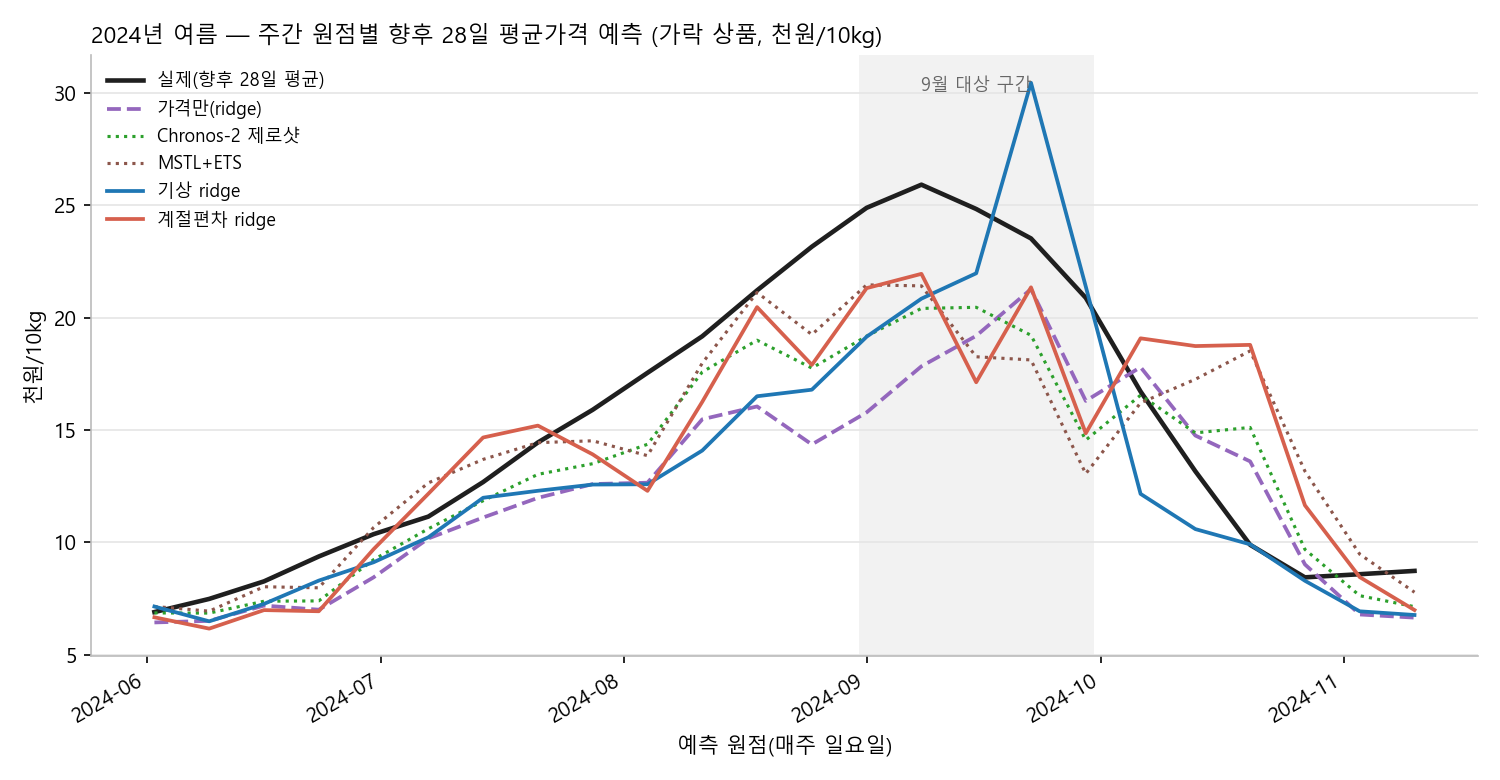
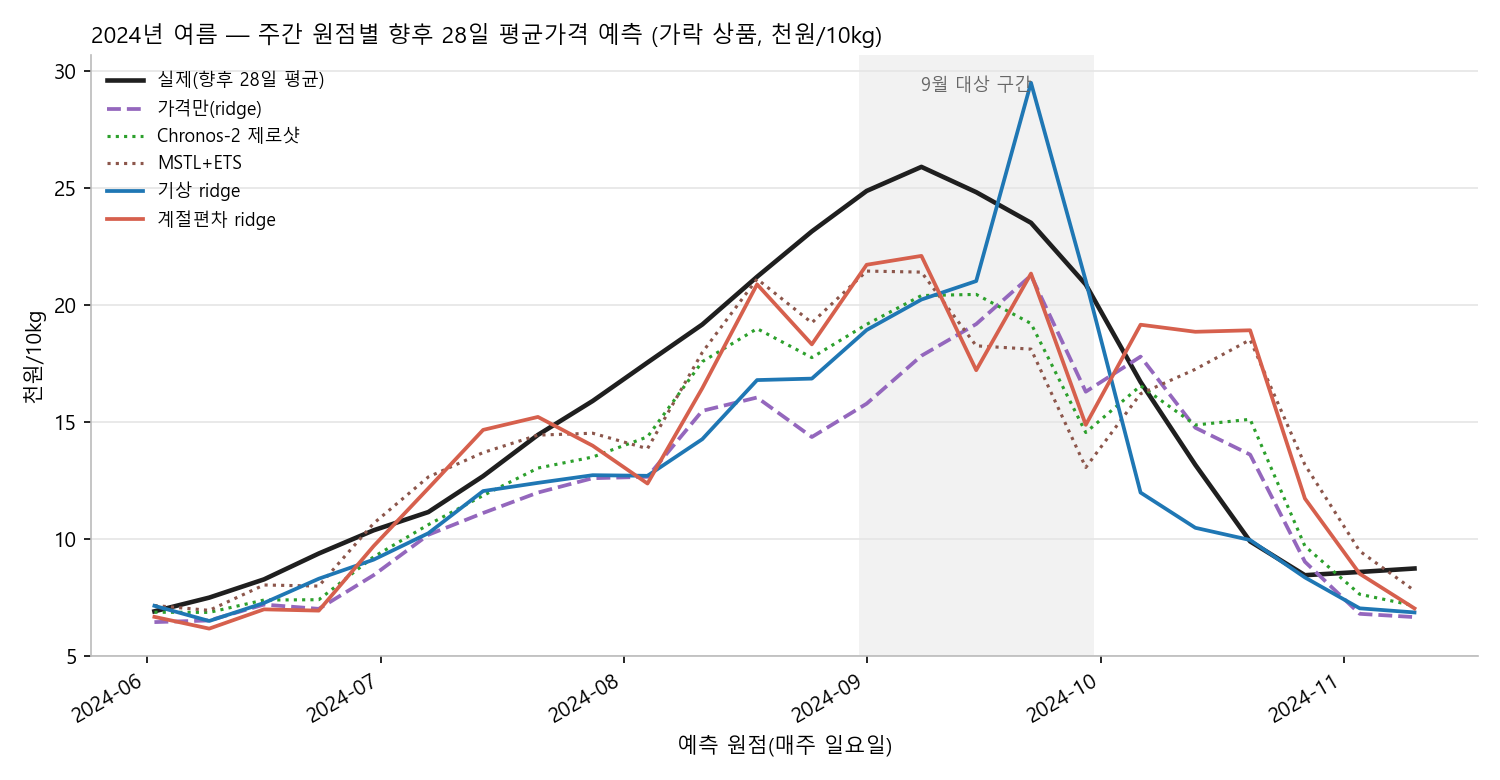
model: 메인에서 정부 방출 피처(gov30/gov60) 제외 — stock.csv 2022~ 자료가 학습구간 0으로 채워져 2022-08 선형 외삽 사고 유발
- backtest.py SUPPLY_FEATS·anomaly_model.py CORE/SPARSE에서 gov 제외(사용자 승인). 월말·주간 백테스트·계절편차·그림 재실행
- 월말: 기상 ridge 2022-09 −59%→−31%, MAPE 17.2→15.0%; 계절편차 ridge −52%→−12%, 16.3→15.6%; 2024-09·트리 무영향
- 계절편차 희소(여름) 2024-09 −6%·MAPE 14.9%로 성공 기준 형식상 충족 — 사후 설계·2025-08 +28% 거짓 경보·0.2%p 차이 단서를 README에 명시
- README 결과표(월말·주간·전체 지표) 갱신, risk-audit R-2/R-3·CLAUDE.md·인계 노트 기록

diff --git a/src/backtest.py b/src/backtest.py
@@ -8,7 +8,7 @@ Models
   naive_last28     : next 28d = last 28d mean
   seasonal_naive   : next 28d = same window last year
   price_only_ridge : lags/seasonality only  (~ what KREI/Chronos-type models see)
-  wx_ridge         : price + weather + inflow + gov
+  wx_ridge         : price + weather + inflow   (정부 방출 피처는 2026-10-08 제외, SUPPLY_FEATS 주석 참조)
   wx_hgb           : HistGradientBoosting on the same features
   wx_hgb_summer    : HGB trained on summer-origin rows only (6~9월), falls back to wx_hgb otherwise
   chronos2         : Chronos-2 zero-shot on the monthly(weekly)-mean price series (KREI 세미나자료 계열, ts_baselines.py)
@@ -39,7 +39,11 @@ PRICE_FEATS = [
     "lp7", "lp28", "lp90", "lp28_lag364", "lp28_lag728", "mom7_28", "mom28_90", "yoy28",
     "vol28", "dlp7", "dlp14", "sin1", "cos1", "sin2", "cos2",
 ]
-SUPPLY_FEATS = ["lq7", "lq28", "qyoy28", "qmom7_28", "gov30", "gov60"]
+# 2026-10-08: gov30/gov60(정부 방출 30/60일 합) 제외. stock.csv 방출은 2022~만 있고 수집 누락이 0으로 들어가
+# 2016~2021 학습구간이 전부 0 → 2022-08 첫 등장 때 선형 모형 외삽 사고(기상 ridge 2022-09 −59%, 계절편차 ridge −52%).
+# 제외 시 기상 ridge MAPE 17.2→15.0%, 2022-09 −31%; 2024-09는 변화 없음. 정부 방출은 experiments/case01 트리거로만 사용.
+SUPPLY_FEATS = ["lq7", "lq28", "qyoy28", "qmom7_28"]
+GOV_FEATS_EXCLUDED = ["gov30", "gov60"]
 SPREAD_FEATS = ["spread_hm7", "spread_hm28", "dspread_hm", "spread_sh28", "spread_yoy"]  # 검증 결과 노이즈 → 기본 제외
 WX_FEATS = [
     "H_hot30_sum14", "H_hot30_sum30", "H_hot30_sum60", "H_hot33_sum30",

diff --git a/src/anomaly_model.py b/src/anomaly_model.py
@@ -33,14 +33,16 @@ CORE = [
     "H_hot30_sum30", "H_hot30_sum60", "H_h_tmax_anom_mean30", "H_h_tmax_anom_mean60",
     "H_h_tmin_anom_mean30", "H_tropical_sum30",
     "H_h_rain_anom_mean30", "H_h_rain_anom_mean60", "H_heavy50_sum30", "H_heavy50_sum60",
-    "qyoy28", "qmom7_28", "gov30",
+    "qyoy28", "qmom7_28",
 ]
 SPARSE = [
     "cur_anom7", "dlp7",
     "H_h_tmax_anom_mean30", "H_hot30_sum60",
     "H_h_rain_anom_mean30", "H_heavy50_sum60",
-    "qyoy28", "gov30",
+    "qyoy28",
 ]
+# 2026-10-08: gov30(정부 방출 30일 합) 제외 — stock.csv 방출은 2022~만 있어 학습구간이 0으로 채워지고,
+# 2022-08 첫 등장 때 외삽 사고(an_ridge_all 2022-09 −52% → 제외 시 −12%, MAPE 16.3→15.6%). 상세는 backtest.py 주석·README.
 
 
 def add_normals(df: pd.DataFrame) -> pd.DataFrame:

diff --git a/wiki/handoff-next-session.md b/wiki/handoff-next-session.md
@@ -37,7 +37,18 @@ date: 2026-10-07
   확장 피처 생성을 케이스 안 `case_features.py`(메인 함수 import, 산출 `outputs/daily_features_ext.csv` 131열)로 옮김. 메인 `data/processed/daily_features.csv` 재빌드(98열). 새 위치에서 M 재실행 결과 동일(all LightGBM 13.8%, 실행 간 ±0.1%p).
   **메인 `src/`는 이제 10-06 상태와 동일**(all_data·trigger 흔적 없음).
 
-### ③ 현재 상태 (월말 원점, 2026-10-07 실행)
+### ②-3 한 일 (2026-10-08) — 메인에서 정부 방출 피처 제외 (사용자 승인 "진행시켜")
+- 계기: 사용자 질문 "5년짜리 정부 방출 데이터를 넣기엔 위험하지 않나" → 스크래치 ablation으로 확인. **gov30/gov60이 선형 모형을 망치고 있었다.**
+  stock.csv 방출은 2022~만 있고 수집 누락이 0 → 2016~2021 학습구간 전부 0 → 2022-08 첫 등장 값에서 외삽 사고. 기상 ridge 2022-09 −59%→−31%, MAPE 17.2→15.0%; 계절편차 ridge −52%→−12%, 16.3→15.6%. 트리·2024-09 무영향.
+- 메인 수정(평가 설계 변경, 승인 받음): `src/backtest.py` SUPPLY_FEATS에서 gov30/gov60 제외(`GOV_FEATS_EXCLUDED`로 기록), `src/anomaly_model.py` CORE/SPARSE에서 gov30 제외. build_features의 gov 열 자체는 유지(데이터).
+- 재실행: backtest M/W, anomaly M/W, plot_2024. README 1차 결과표·전체 지표·알게 된 것 5번·설계 요점 갱신, CLAUDE.md 요약 갱신, risk-audit R-2에 아티팩트 기록.
+- **월말 결과(gov 제외 후)**: 기상 ridge 2024-09 −24%/MAPE 15.0%, 기상 HGB −26%/14.2%, 여름특화 HGB −34%/13.0%, 계절편차 ridge −14%/15.6%, **계절편차 희소(여름) −6%/14.9%**.
+  → 희소(여름)가 성공 기준 두 항을 **형식상 동시 충족**. 단서: 사후 설계(R-1), 2025-08 +28% 최대 거짓 경보(R-3), 0.2%p 차이. README "성공 기준 점검"에 상한 문장 명시. 2016~2023 설계·2024~2025 검증 분리는 여전히 미실행.
+- **주간 결과(gov 제외 후, n=261)**: 기상 HGB MAPE 15.2%(최선), Chronos-2 15.6%, 가격만 ridge 16.0%, 희소(여름) 16.5%, 기상 ridge 16.6%, 계절편차 ridge 17.4%. 2024 9/1 원점 희소(여름) −5%, 계절편차 −13%. 월말에서 기준 충족한 희소(여름)는 주간에서는 가격만 ridge보다 나쁨 → "충족"은 월말 원점 한정.
+- 교훈(규칙으로 승격): **5개년짜리 자료를 2016~ 학습 피처로 넣지 않는다.** 정부 방출의 쓸모는 case01의 2021~ 트리거로 한정.
+- 커밋·푸시는 사용자 지시("끝나면 결과표 갱신하고 푸시까지")에 따름.
+
+### ③ 현재 상태 (월말 원점, 2026-10-07 실행; 기상·계절편차 수치는 ②-3 갱신값이 우선)
 - **트리거 연속 분위수(월말)**: 2024-08-31→9월 **+0.4%**(중위수 −18%), 2025-08 −12%(거짓 경보 없음), MAPE 17.9→**17.3%**, 여름 19.7→18.6%. 심각도>0.5 발동 1건(2024-08, 0.84). 상수 27조합 전부 MAPE 17.3~18.0%, 2025-08은 −11~−12% 고정 → 이진 규칙보다 안정.
 - **트리거(주간)**: 작동 안 함. MAPE 15.4→15.7%, 여름 17.7→18.6%. 2024-09-01/08/15는 잡지만 2022-09-18·2023-08-27·2023-09-10·2025-08-03 거짓 경보(추석 전후 방출 중단, 주간 잡음). 창 확대 설계는 2024 재참조라 멈춤.
   주간 상수 민감도(2026-10-08 재실행, 토큰 한도로 밀렸던 항목 완료): MAPE 15.1~15.9%. 느슨하면 2024 잡고 MAPE 악화, 엄격하면 MAPE 15.1%지만 2024-09-01 −10~−17% → 상충, 동시 만족 조합 없음. CASE.md에 기록.

diff --git a/wiki/risk-audit.md b/wiki/risk-audit.md
@@ -29,10 +29,14 @@ date: 2026-10-07
 - ✅ **쓸 문장 상한**: "같은 가격 정보로도 추세 외삽형은 급등의 절반 이상을 따라가며, 기상 정보는 평시 오차를 늘리지 않으면서 비슷한 추종을 준다."
 - ❌ **쓰면 안 되는 문장**: "기상 정보가 급등 추종의 핵심이다."(순효과 미산출 상태에서)
 - **해소 방향**: 비교 기준선을 Chronos-2·MSTL로 두고, 기상 피처를 **기준모형 위에 얹은** 변형(잔차 회귀 또는 결합)의 순효과를 같은 원점 집합에서 산출.
+- **2026-10-08 추가 — 선형 모형의 2022-09 실패는 자료 아티팩트였다.** 1차 결과표의 기상 ridge 2022-09 −59%, 계절편차 ridge −52%는 정부 방출 피처(gov30/gov60, `stock.csv`) 때문이었다.
+  stock.csv 방출은 2022~만 있고 수집 누락이 0으로 들어가 2016~2021 학습구간이 전부 0 → 2022-08 첫 등장 값에서 선형 외삽 사고. gov 피처 제외 시 기상 ridge MAPE 17.2→15.0%, 2022-09 −31%; 계절편차 ridge 16.3→15.6%, −12%. 2024-09는 변화 없음(급등 추종은 기상 피처가 담당).
+  → "기상 선형 모형은 2022년에 실패했다"는 서술을 쓰지 않는다. 5개년짜리 자료를 2016~ 학습 피처로 넣는 것은 금지(ad hoc 규칙이 아니라 이 사고가 근거). 정부 방출의 쓸모는 `experiments/case01`의 2021~ 트리거로 한정.
 
 ## 🟠 R-3. 거짓 경보 비용 — 급등 없던 해의 과대
 
 - **문제**: 2025-08-31 원점에서 기상 모형 전부 +9~+21% 과대, MSTL +32~35%. 급등 추종의 대가가 평시 과대 예측이다.
+  **2026-10-08 갱신**: gov 피처 제외 후 2024-09를 가장 잘 잡는 계절편차 희소(여름)(−6%)가 2025-08을 **+28%**로 전 모형 중 가장 크게 과대 예측한다. 급등 추종과 거짓 경보의 상충이 한 모형 안에서 가장 선명하게 드러난 사례 → 표 N의 중심 행으로 쓴다.
 - **반박 시나리오**: "급등을 따라가는 대신 평년에 과대 예측하는 모형이 운영상 더 낫다고 할 수 있습니까? 손실함수는 무엇입니까?"
 - **현재 상태**: 수치는 README에 있으나 **상충을 정량화한 지표(비대칭 손실·분위수 커버리지)는 없음**.
 - ✅ **쓸 문장 상한**: "급등 추종 개선은 급등 없던 해의 과대 예측을 동반하며, 두 비용의 상충을 표 N에 제시한다."

diff --git a/CLAUDE.md b/CLAUDE.md
@@ -41,7 +41,9 @@ node 없음(dataviz 팔레트 검증기 실행 불가).
 
 ## 현재 상태 요약 (README 참조)
 
-2024-08-31→9월: 가격만 ridge −37%, Chronos-2 제로샷 −18%, MSTL+ETS −13%, 기상 ridge −23%, 기상 HGB −27%, 계절편차 ridge −16%.
+2024-08-31→9월(2026-10-08 gov 피처 제외 후): 가격만 ridge −37%, Chronos-2 제로샷 −18%, MSTL+ETS −13%, 기상 ridge −24%, 기상 HGB −26%, 계절편차 ridge −14%, 계절편차 희소(여름) −6%.
+정부 방출 피처 gov30/gov60은 2026-10-08 메인에서 제외(stock.csv 2022~만 있어 학습구간 0 → 2022-08 선형 외삽 사고. 기상 ridge MAPE 17.2→15.0%). 5개년짜리 자료는 학습 피처로 넣지 않는다.
+계절편차 희소(여름)는 2024-09 −6%·MAPE 14.9%로 성공 기준을 형식상 충족하나 사후 설계·2025-08 +28% 거짓 경보·0.2%p 차이라 "충족"으로 쓰지 않는다(README 성공 기준 점검).
 단변량 추세외삽 기준모형(`src/ts_baselines.py`)이 급등을 절반 이상 잡으므로 비교 기준선은 가격만 ridge가 아니라 Chronos-2·MSTL.
 10월 하락 전환은 모든 모형이 과대. 다음 후보: KREI 단수·생산량 전망 + 탄력성 결합 레이어, 가을배추 전환 신호, 분위수 예측.
 병목은 데이터 양이 아니라 2024·2025를 가르는 변수(산지 작황·정식 지연·재배면적)의 부재(case02). 피처 추가 방향은 중단.
